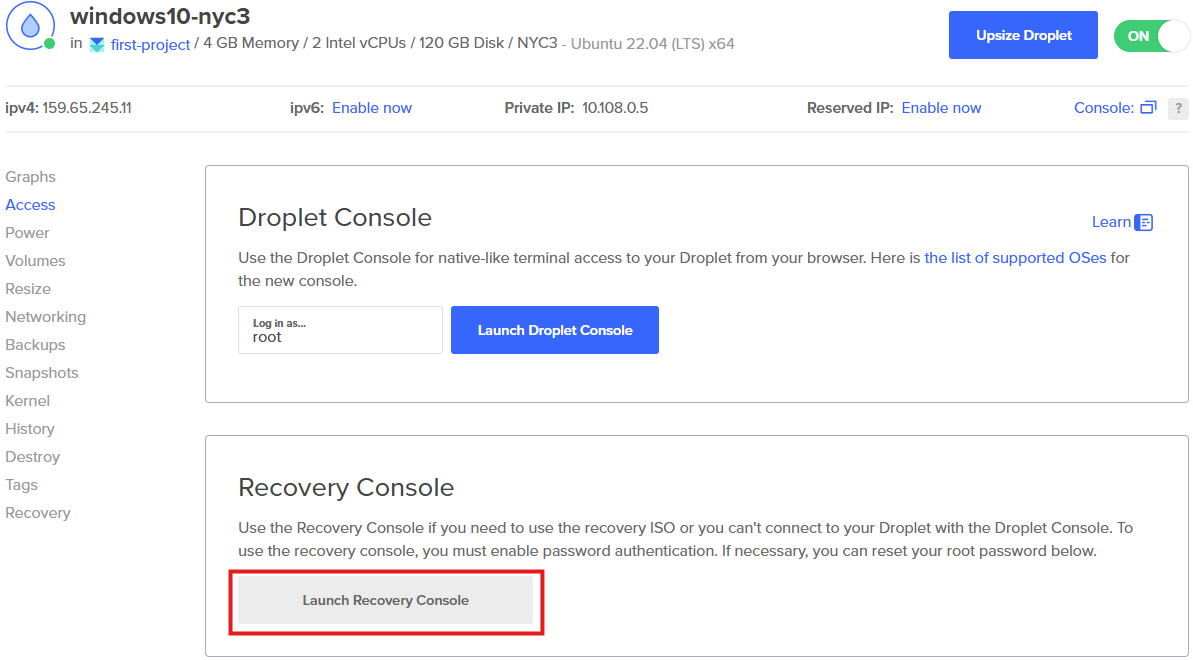
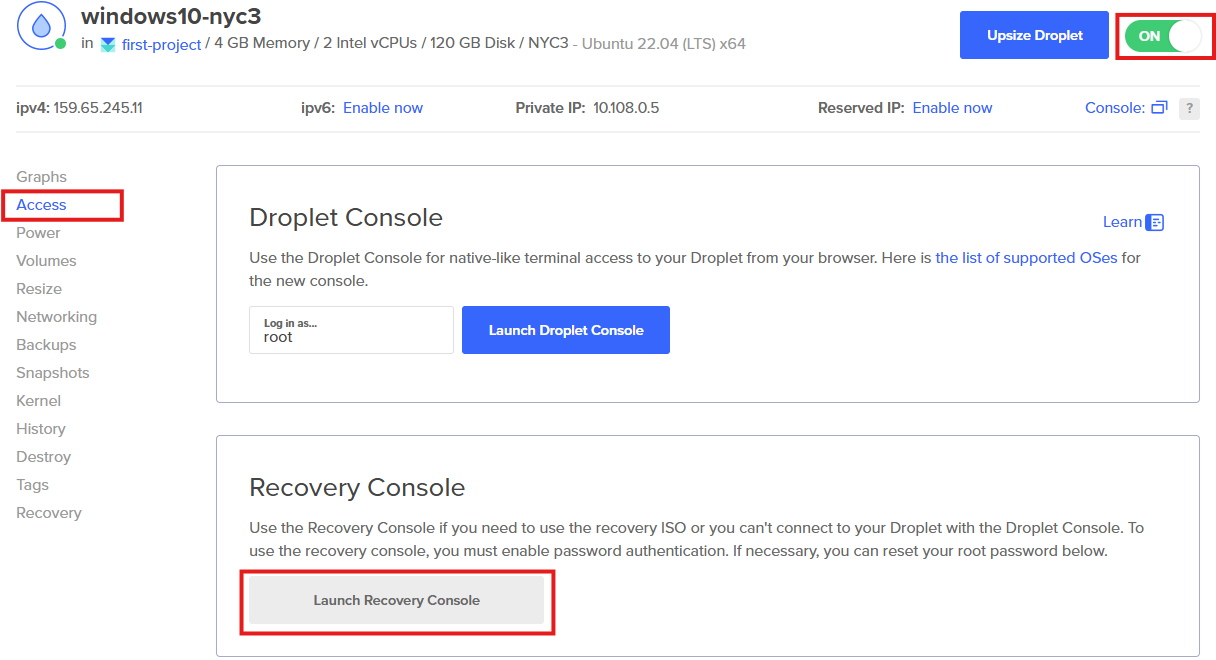
my-portfolio

diff --git a/_posts/2025-05-13-windows-on-digitalocean-droplet.md b/_posts/2025-05-13-windows-on-digitalocean-droplet.md
@@ -67,7 +67,7 @@ _styles: >
   }
 
   .zoom-img.zoomed {
-    transform: scale(2); /* adjust zoom level */
+    transform: scale(1.4); /* adjust zoom level */
     cursor: zoom-out;
     z-index: 10;
   }
@@ -357,7 +357,7 @@ $ wget -O- http://<VM1_IP>/windows2010.gz | gunzip | dd of=/dev/<vda/sda>
 
 - **Turn off droplet (VM2)**
 - Switch boot to **Hard Drive**
-   <img src="/assets/img/blog/windows-on-digitalocean-droplet/switch_to_recovery_boot.png" alt="switch to hard drive" class="zoom-img" onclick="this.classList.toggle('zoomed')">
+   <img src="/assets/img/blog/windows-on-digitalocean-droplet/switch_back_to_boot_from_hard_drive.png" alt="switch to hard drive" class="zoom-img" onclick="this.classList.toggle('zoomed')">
 
 - Turn **on** machine
 
